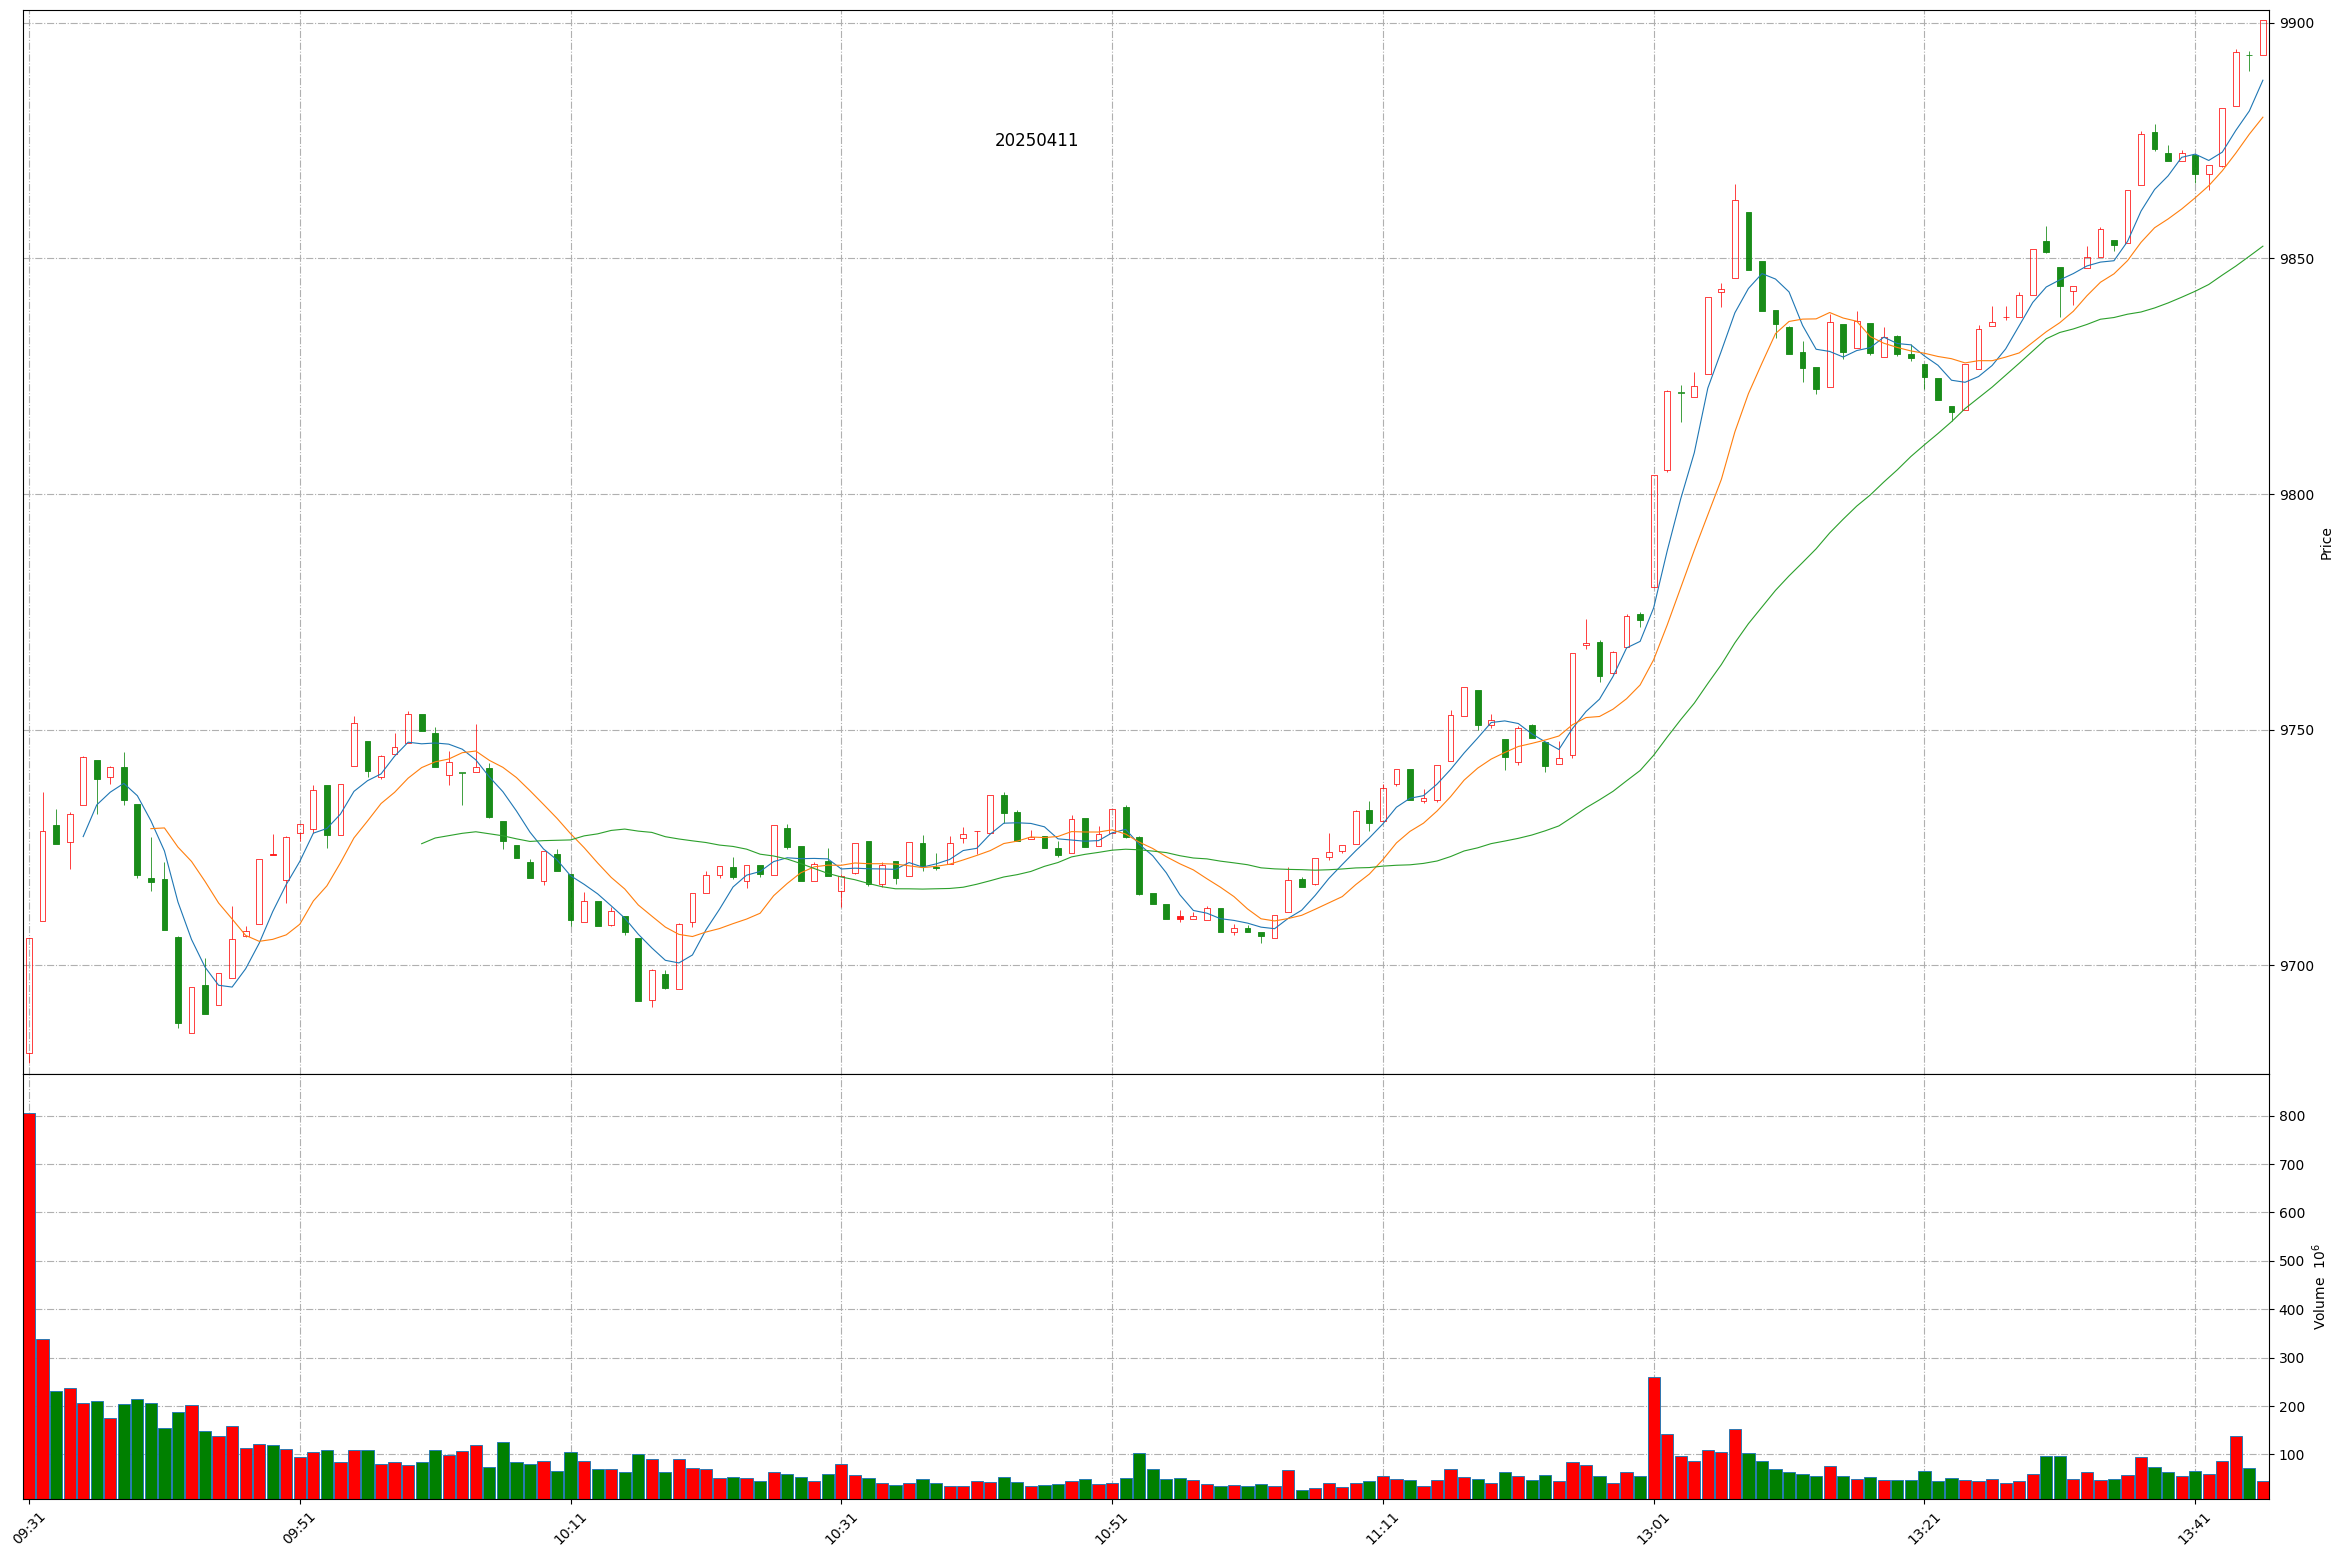
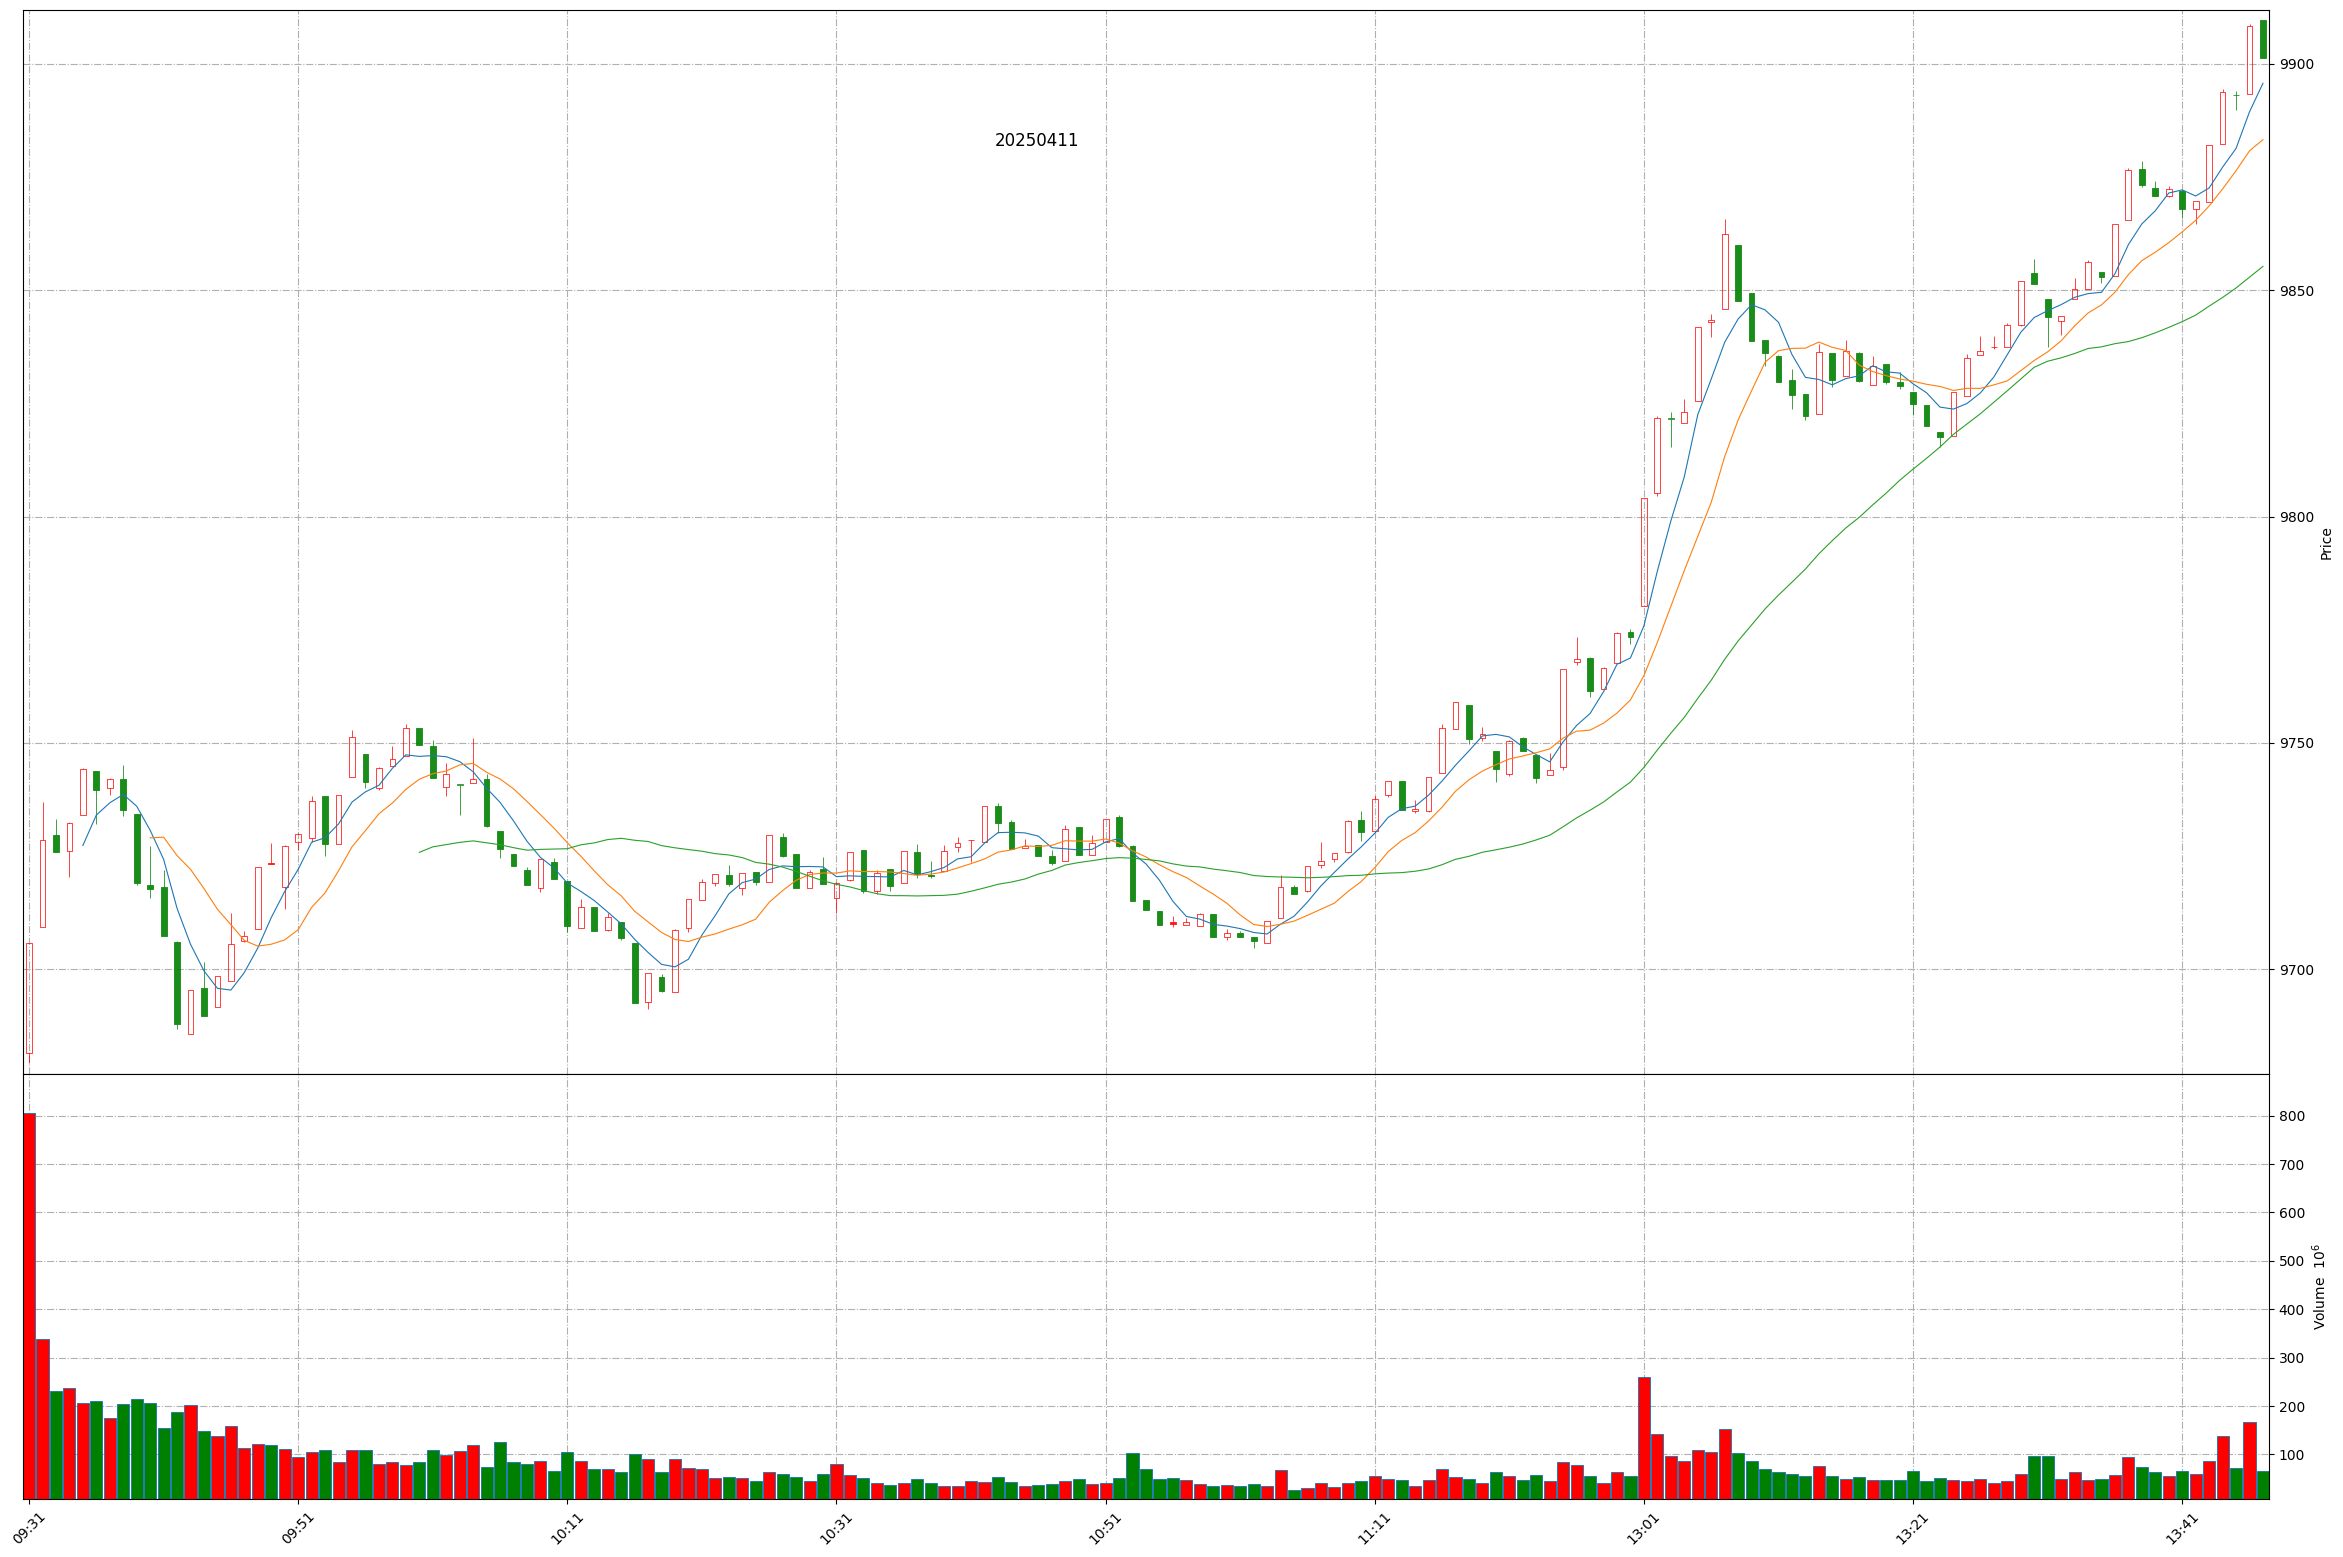
Github action update at 2025-04-11 13:46:52.

diff --git a/README.md b/README.md
@@ -1,11 +1,11 @@
 
 # Daily-A-share-market-quotes 每日 A 股指数（5min 更新）- 20250411
 
-### 上证指数 20250411 13:45
+### 上证指数 20250411 13:46
 ![](./fig/2025/4/20250411-sh000001.png)
 
-### 深证成指 20250411 13:45
+### 深证成指 20250411 13:46
 ![](./fig/2025/4/20250411-sz399001.png)
 
-### 北证50 20250411 13:45
+### 北证50 20250411 13:46
 ![](./fig/2025/4/20250411-bj899050.png)
